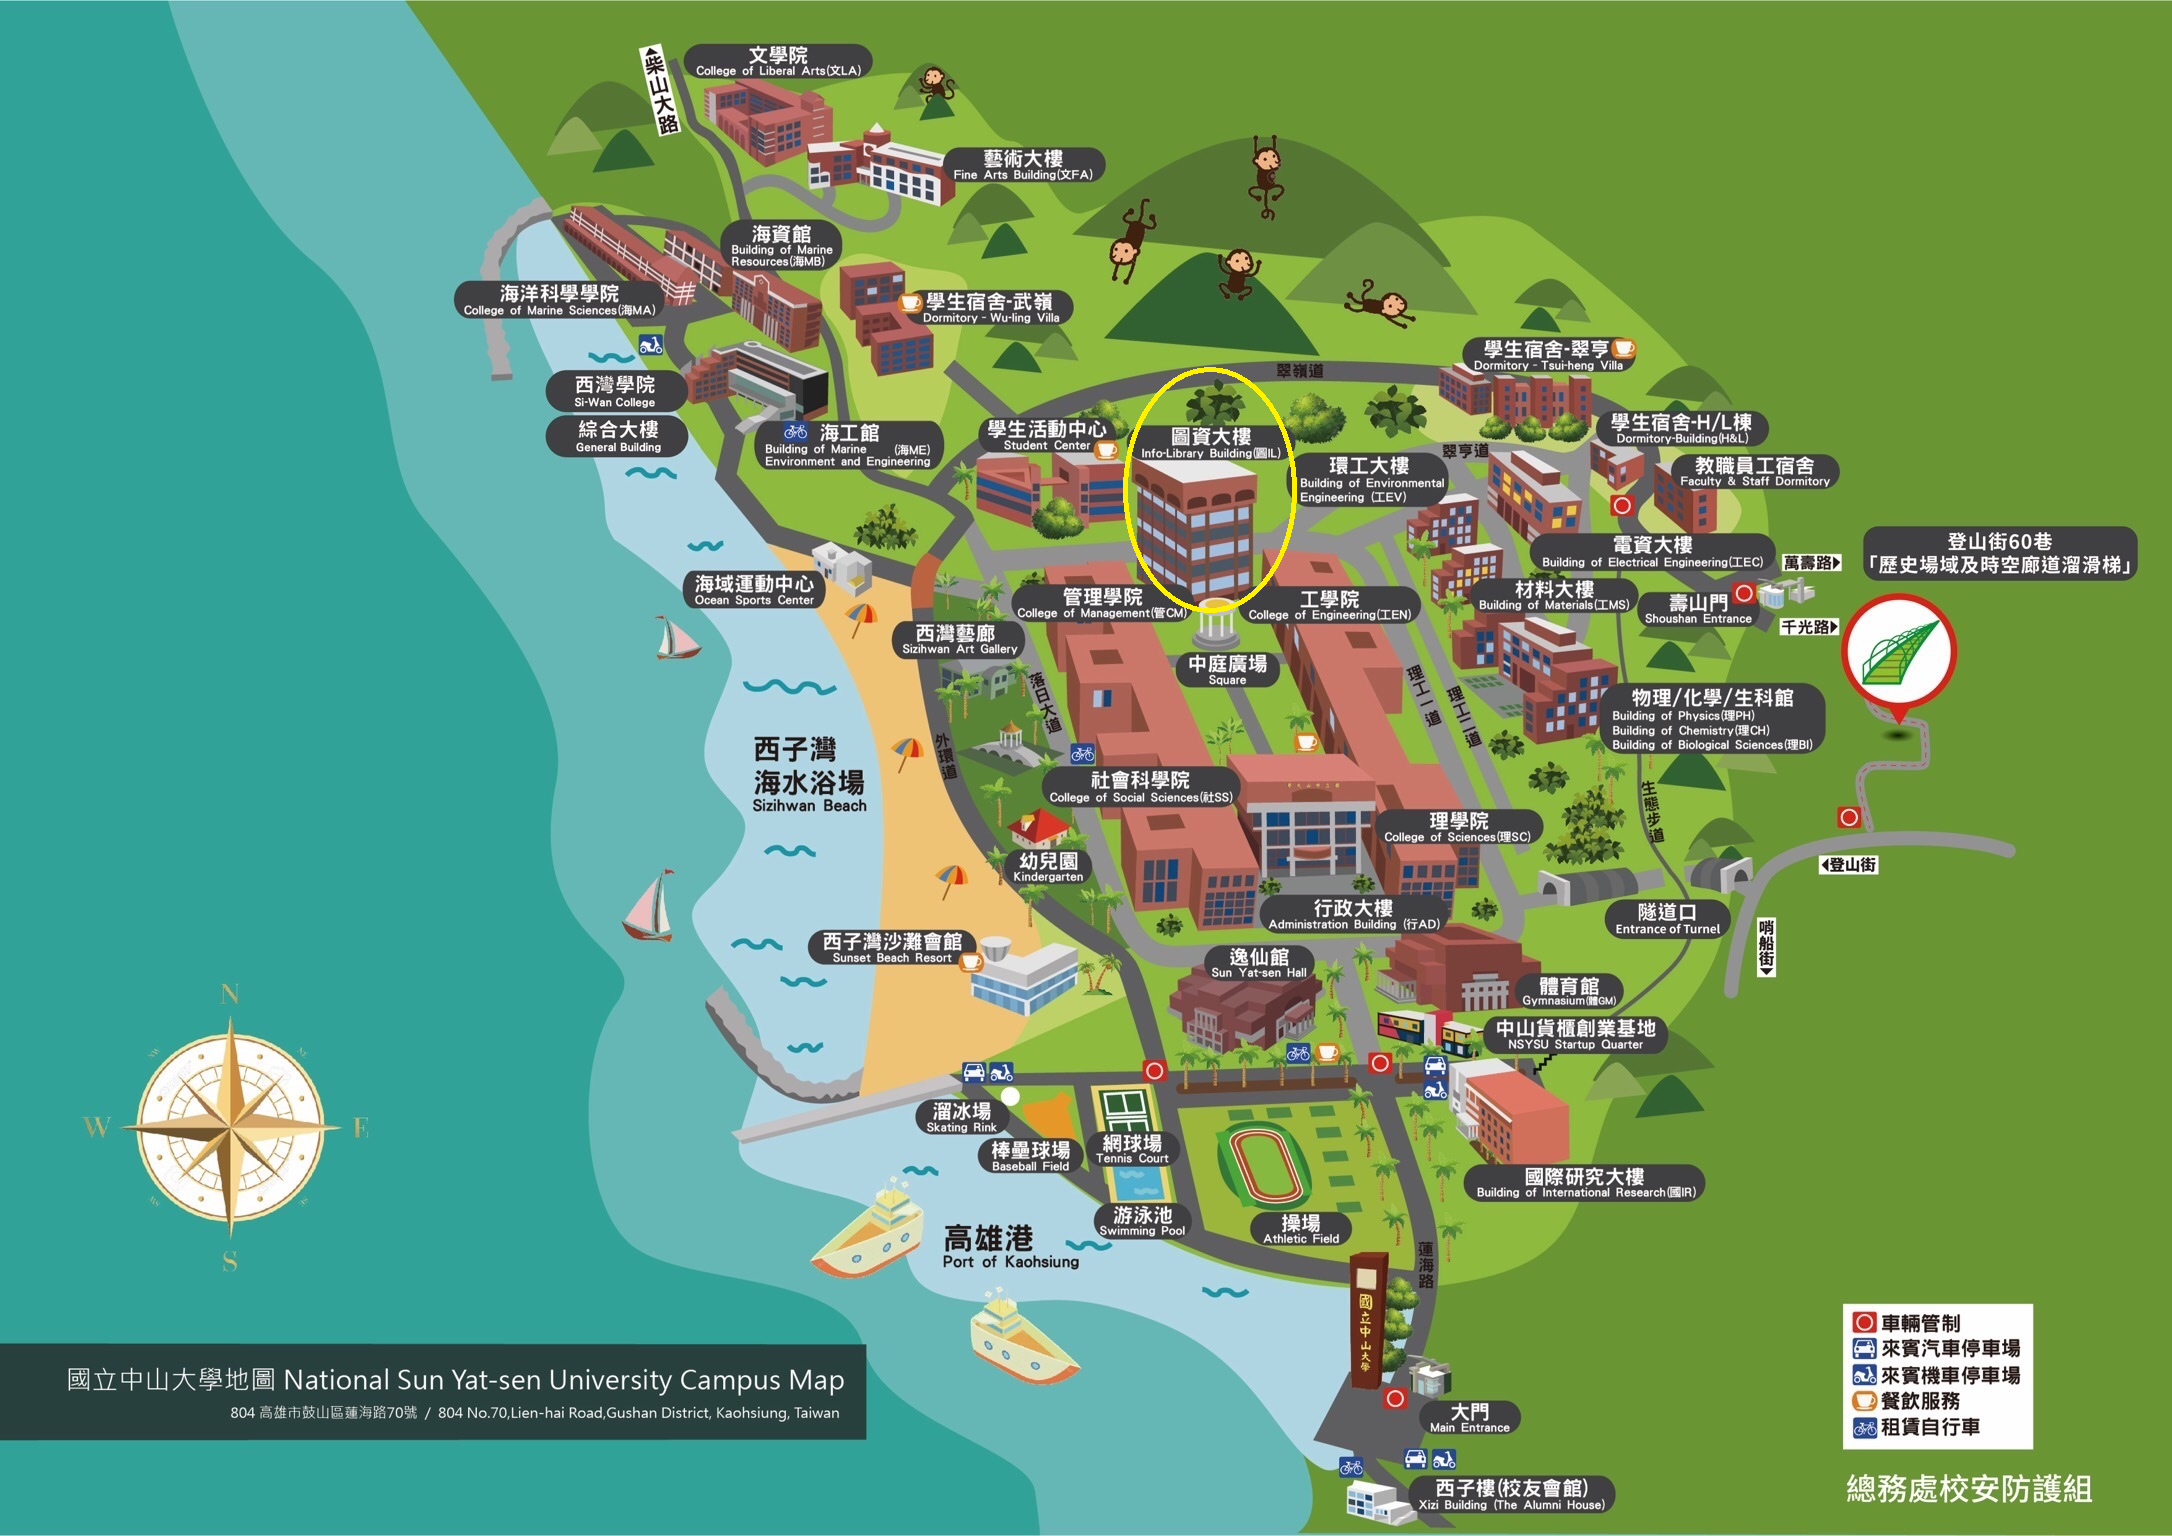
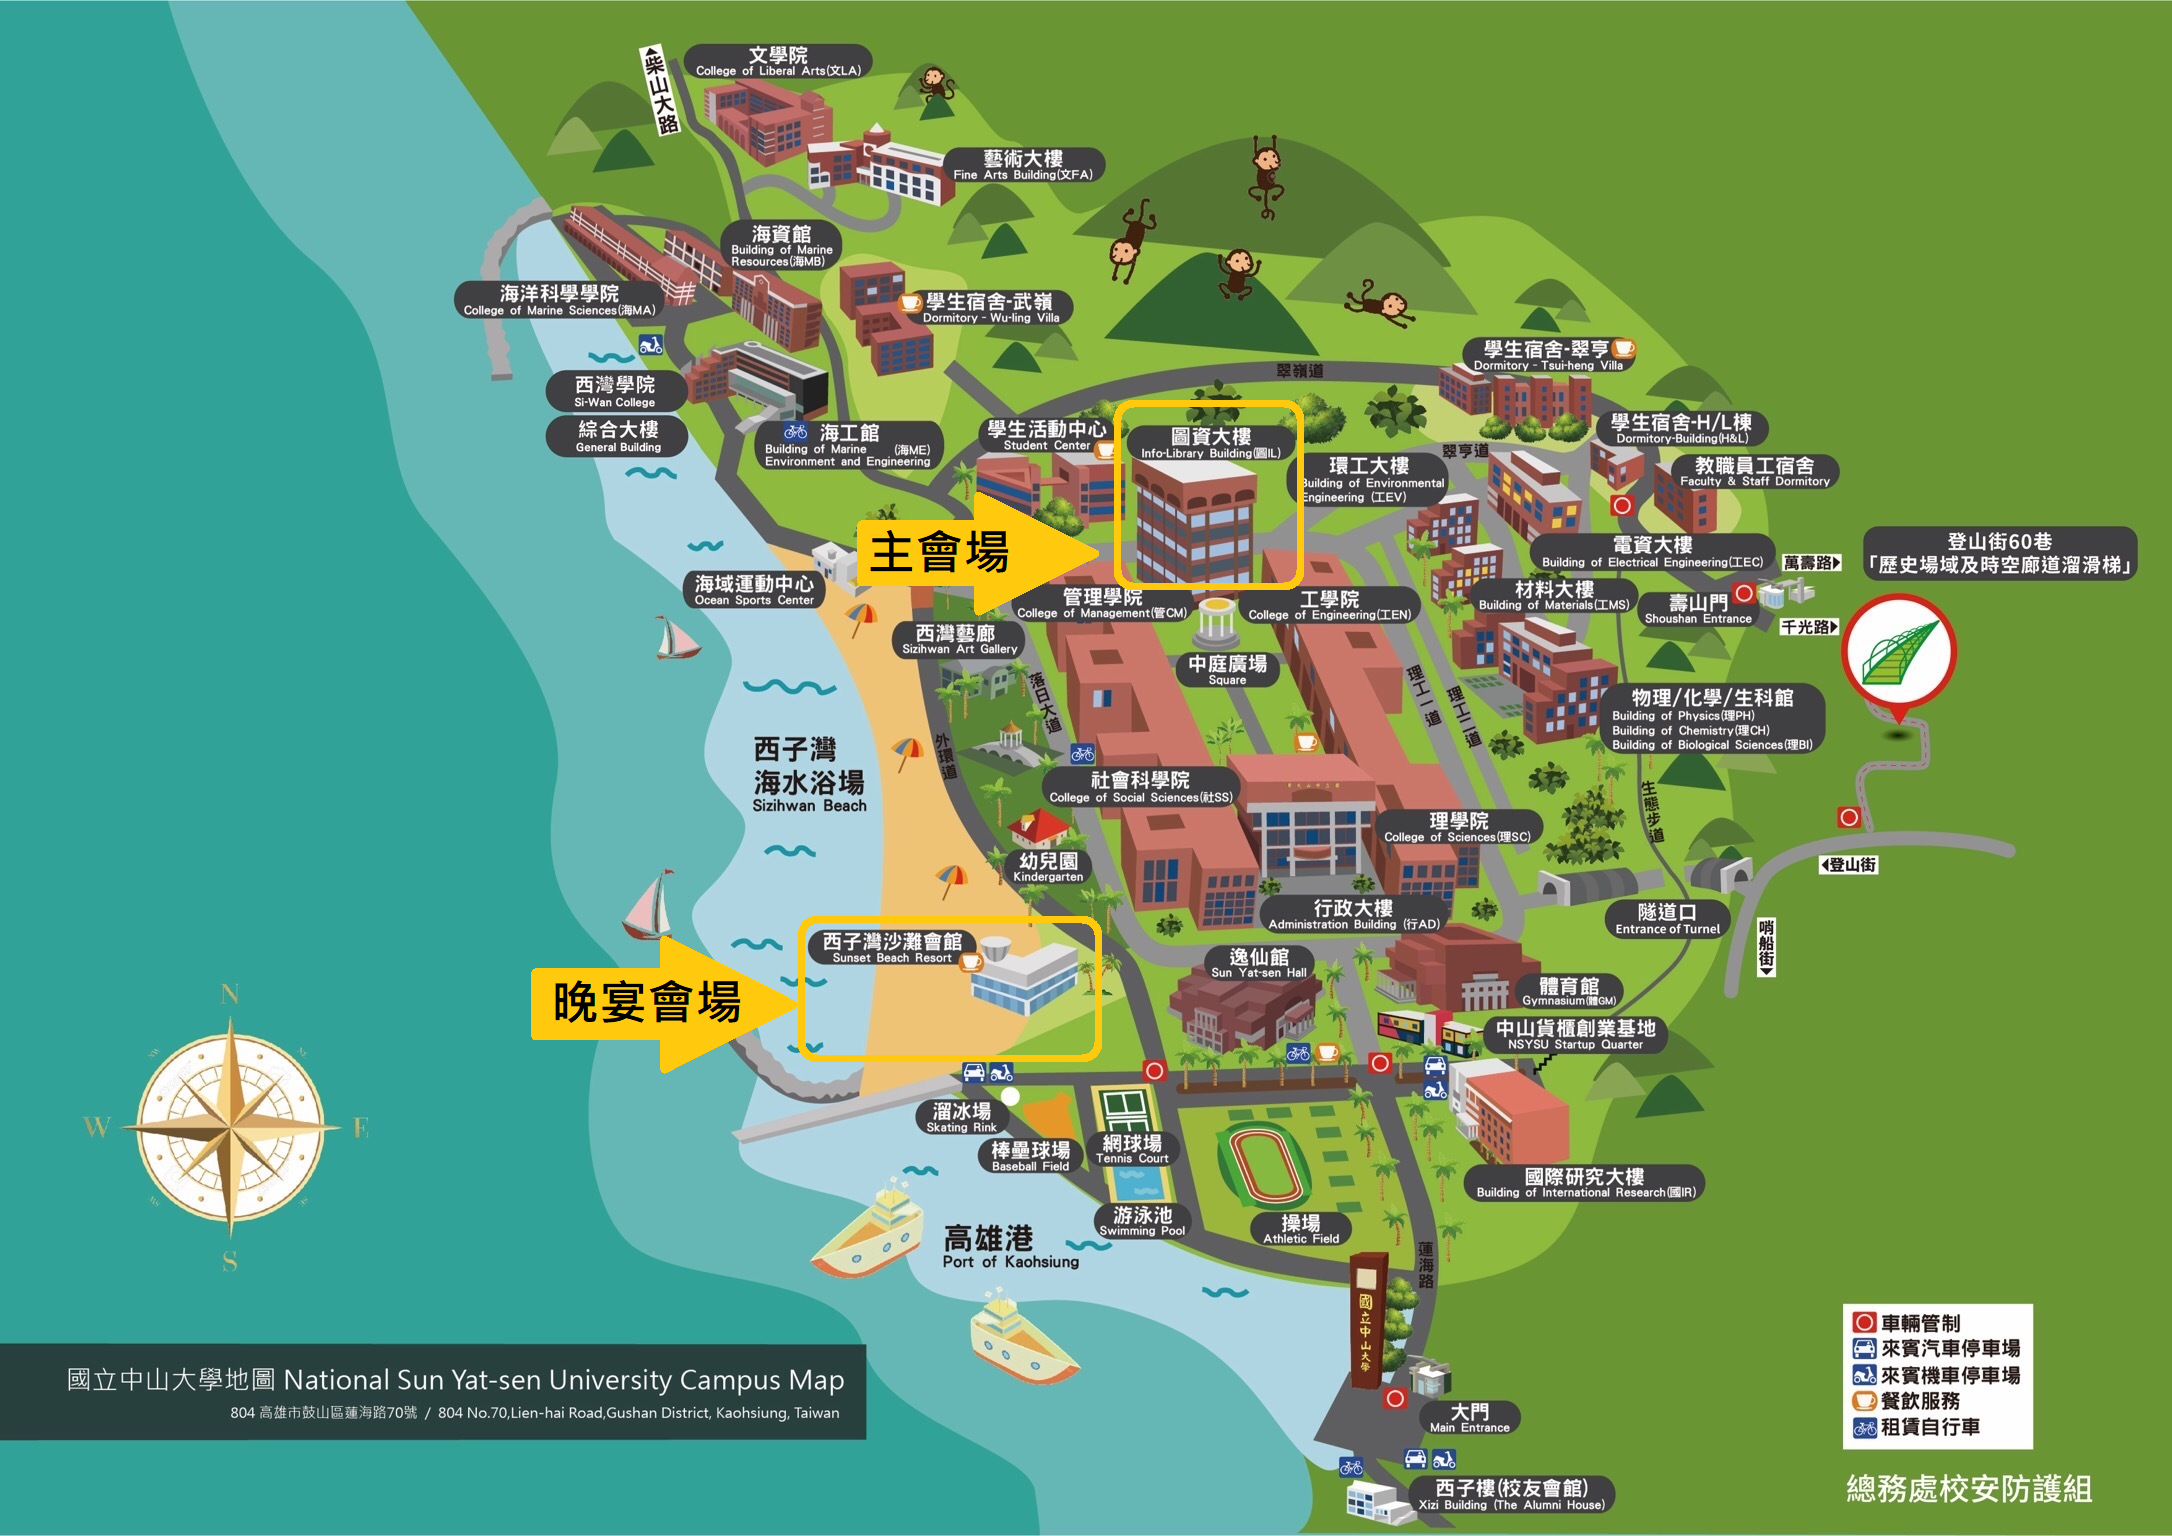
Update information for parners and map

diff --git a/src/CampusMap.js b/src/CampusMap.js
@@ -1,25 +1,17 @@
 import React from 'react';
+import { isBrowser } from 'react-device-detect';
+import { Container, Row, Column } from './Utils';
 
 const CampusMap = () => (
-  <div className="container">
-    <h1 className="mt-4 mb-3">校園地圖</h1>
-
-    <ol className="breadcrumb">
-      <li className="breadcrumb-item">
-        <a href="/">Home</a>
-      </li>
-      <li className="breadcrumb-item active">校園地圖</li>
-    </ol>
-
-    <div className="row">
-      <div className="col-lg-12">
-        <p>活動地點在圖資大樓11樓</p>
-      </div>
-      <div className="col-lg-12 mb-4">
+  <Container title="校園平面圖">
+    <Row style={isBrowser ? { fontSize: '18px' } : {}}>
+      <Column title="活動地點">
+        <div className="mb-1">主會場在圖資大樓11樓</div>
+        <div className="mb-1">晚宴會場在西子灣沙灘會館</div>
         <img src="/map.png" className="img-fluid" alt="ResponsiveImage" />
-      </div>
-    </div>
-  </div>
+      </Column>
+    </Row>
+  </Container>
 );
 
 export default CampusMap;

diff --git a/src/Partner.js b/src/Partner.js
@@ -62,6 +62,9 @@ const Partner = () => (
           <Card href="https://www.ttc.org.tw/eng.php" src="/parners/ttc.png">
             財團法人電信技術中心
           </Card>
+          <Card href="https://www.iii.org.tw/" src="/parners/iii.png">
+            財團法人資訊工業策進會
+          </Card>
         </Row>
       </Column>
       <Column title="贊助廠商">
@@ -104,6 +107,9 @@ const Partner = () => (
           </Card>
           <Card href="https://www.nchc.org.tw/" src="/parners/nchc.png">
             財團法人國家實驗研究院國家高速網路與計算中心
+          </Card>
+          <Card href="https://www.twca.com.tw/" src="/parners/twca.png">
+            台灣網路認證
           </Card>
           <Card
             href="http://www.paysecure.com.tw/"
